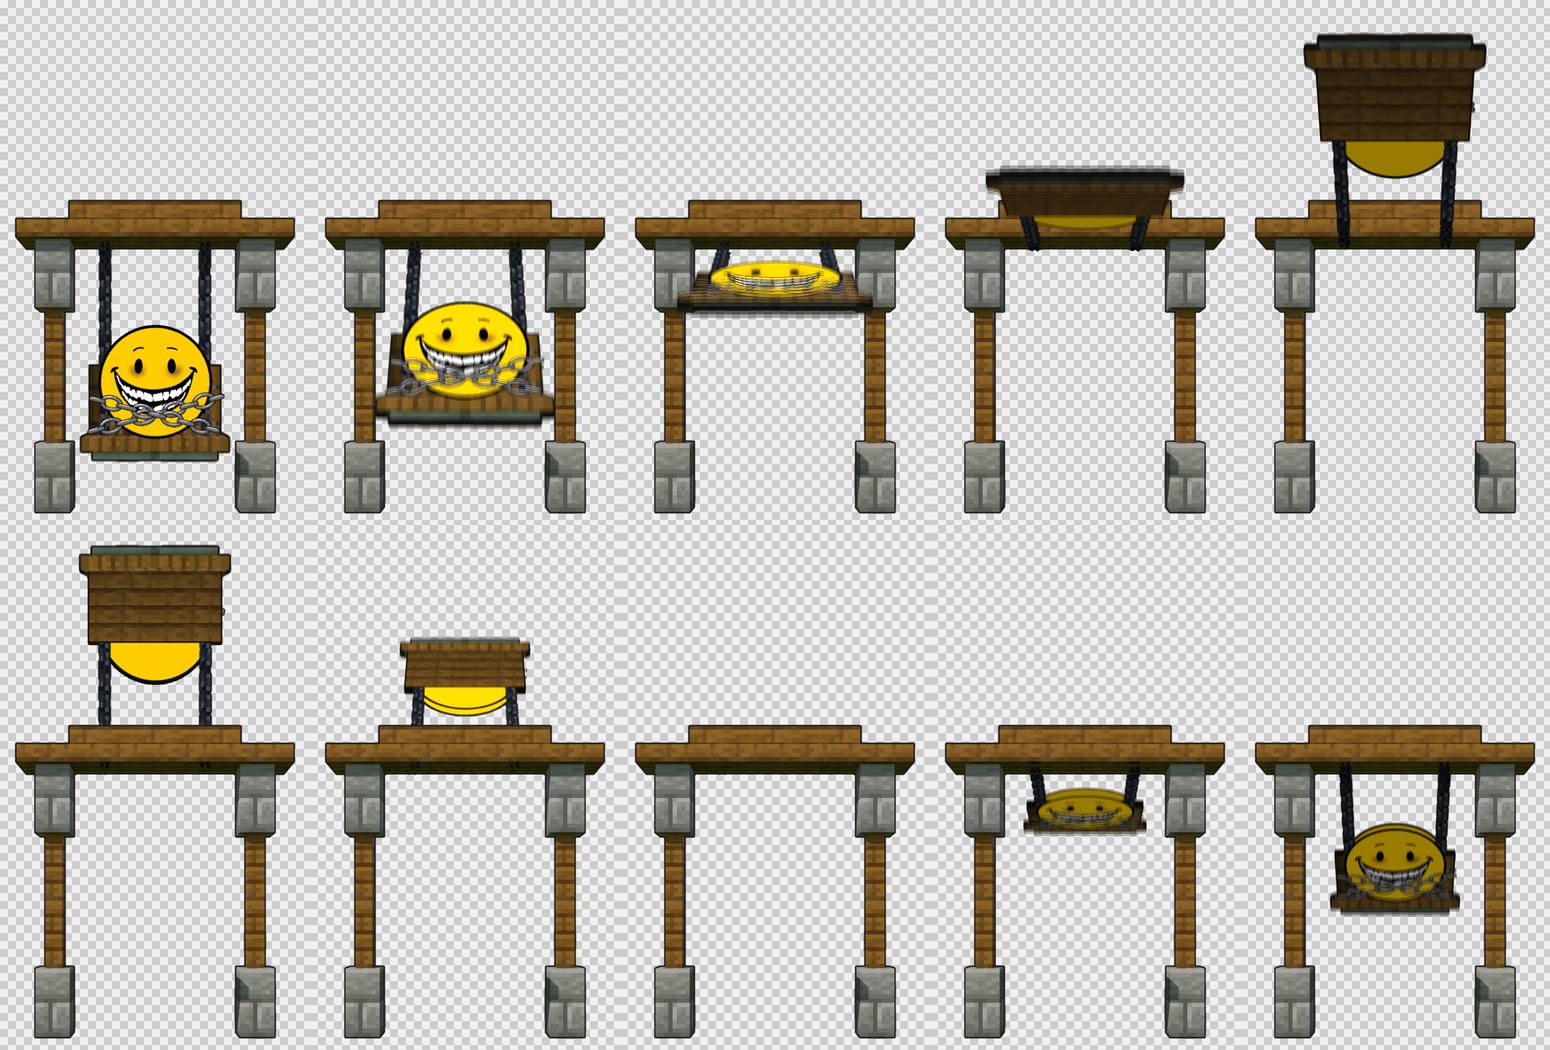
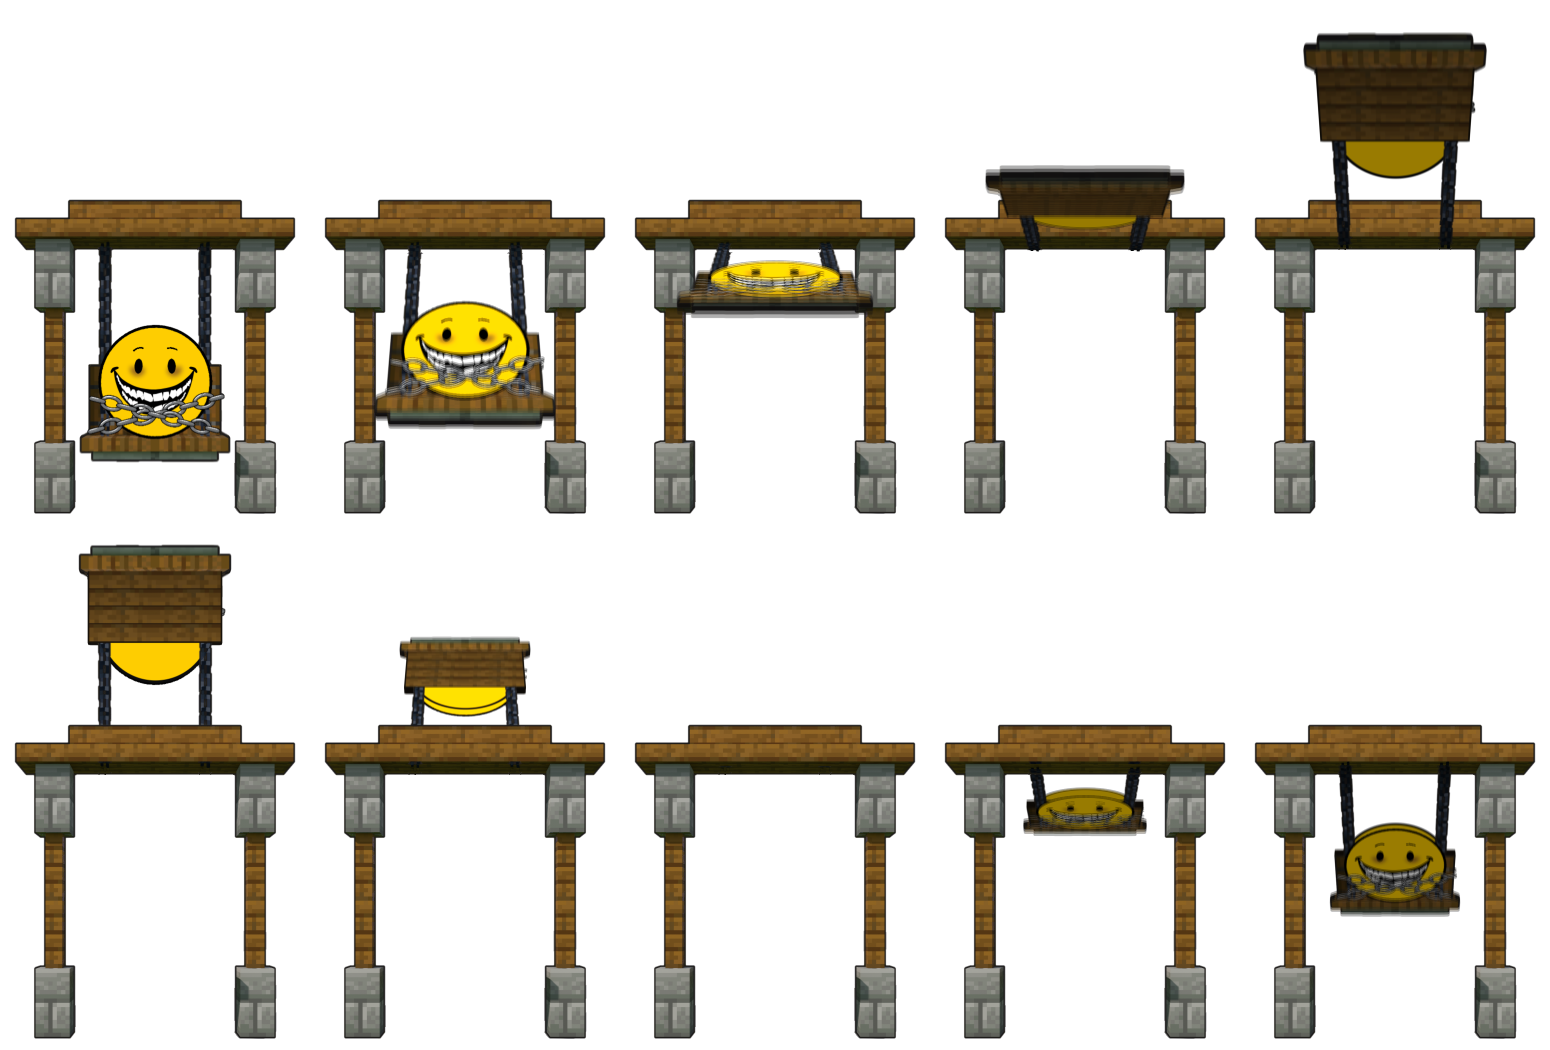
Make swing preview sheet transparent instead of baking in a checkerboard
The checkerboard stayed as real pixels when the sheet was opened in an
animation app; now it is RGBA like the frames.

Claude-Session: https://claude.ai/code/session_01Bx38pomekVsbSguD9xnh7p

diff --git a/tools/swing.py b/tools/swing.py
@@ -2,7 +2,7 @@
 """Качели делают полный оборот («солнышко») вокруг перекладины. Вид спереди, фон удалён.
 
     python3 tools/swing.py              # слои, кадры, GIF / WebP / APNG / WebM / MOV
-    python3 tools/swing.py --preview    # только лист ключевых кадров на шахматке
+    python3 tools/swing.py --preview    # только лист ключевых кадров
 
 Исходник — swing/source.png. Картинка режется на неподвижную раму и качелю (цепи,
 сиденье, смайлик). Качеля — плоская двусторонняя текстура с толщиной: она
@@ -392,12 +392,6 @@ def downsample(p):
     return p.reshape(h, SS, w, SS, 4).mean(axis=(1, 3))
 
 
-def checker(h, w, n=16):
-    ys, xs = np.mgrid[0:h, 0:w]
-    v = np.where(((ys // n) + (xs // n)) % 2, 205, 240).astype(np.float32)
-    return np.dstack([v, v, v, np.ones_like(v)])
-
-
 # --- 5. сборка ----------------------------------------------------------------
 def build_layers():
     rgb = np.asarray(Image.open(SRC).convert('RGB'))[:, :CROP_W]
@@ -424,12 +418,11 @@ PREVIEW_KEYS = [0, 8, 14, 20, 30, 45, 60, 70, 76, 82]
 
 
 def save_sheet(images):
-    """Лист ключевых кадров на шахматке: два ряда по пять, в половину размера."""
-    tiles = [over(img, checker(*img.shape[:2])) for img in images]
-    sheet = np.concatenate([np.concatenate(tiles[:5], 1), np.concatenate(tiles[5:], 1)], 0)
+    """Лист ключевых кадров на прозрачном фоне: два ряда по пять, в половину размера."""
+    sheet = np.concatenate([np.concatenate(images[:5], 1), np.concatenate(images[5:], 1)], 0)
+    h, w = sheet.shape[0] // 2, sheet.shape[1] // 2
     path = os.path.join(OUT, 'preview.png')
-    Image.fromarray(unpremul_u8(sheet)[..., :3]).resize((sheet.shape[1] // 2, sheet.shape[0] // 2),
-                                                        Image.LANCZOS).save(path)
+    save_png(sheet[:h * 2, :w * 2].reshape(h, 2, w, 2, 4).mean(axis=(1, 3)), path)
     print('лист:', path)
 
 
